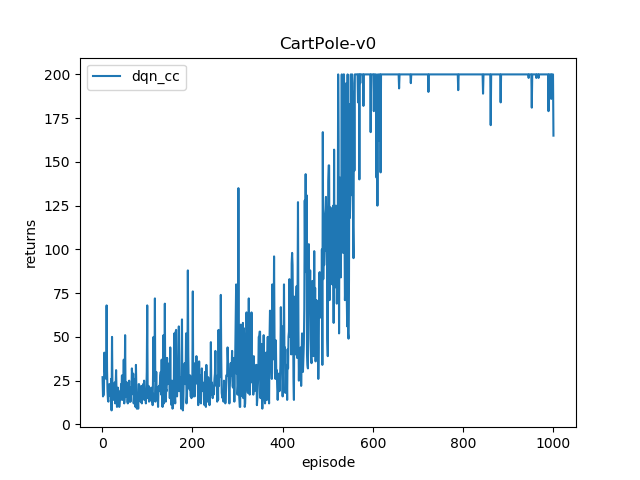
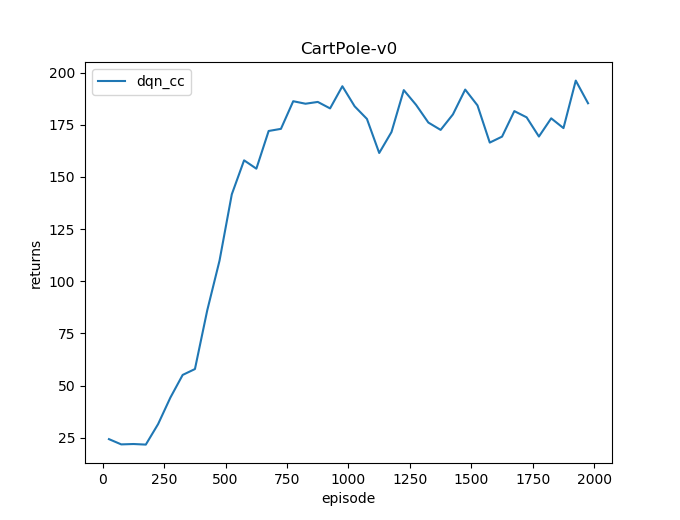
get cartpole working with dqn

diff --git a/all/agents/dqn.py b/all/agents/dqn.py
@@ -8,7 +8,7 @@ class DQN(Agent):
                  q,
                  policy,
                  replay_buffer_size=100000,
-                 minibatch_size=32,
+                 minibatch_size=4 * 32,
                  gamma=0.99,
                  prefetch_size=10000,
                  update_frequency=4
@@ -53,8 +53,7 @@ class DQN(Agent):
                 and self.frames_seen % self.update_frequency == 0)
 
     def train(self):
-        (states, actions, next_states, rewards) = self.replay_buffer.sample(
-            self.update_frequency * self.minibatch_size)
+        (states, actions, next_states, rewards) = self.replay_buffer.sample(self.minibatch_size)
         values = self.q(states, actions)
         targets = rewards + self.gamma * \
             torch.max(self.q.eval(next_states), dim=1)[0]

diff --git a/all/presets/dqn/dqn_classic_control/__init__.py b/all/presets/dqn/dqn_classic_control/__init__.py
@@ -8,8 +8,8 @@ from ..model import deep_q_classic_control
 def dqn_cc(env):
     model = deep_q_classic_control(env)
     optimizer = Adam(model.parameters(), lr=1e-4)
-    q = TabularActionValue(model, optimizer)
+    q = TabularActionValue(model, optimizer, target_update_frequency=1000)
     policy = GreedyPolicy(q, annealing_time=10000)
-    return DQN(q, policy, replay_buffer_size=10000, prefetch=1000)
+    return DQN(q, policy, prefetch_size=0, update_frequency=1, minibatch_size=32)
 
 __all__ = ["dqn_cc"]

diff --git a/all/presets/dqn/dqn_classic_control/demo.py b/all/presets/dqn/dqn_classic_control/demo.py
@@ -2,7 +2,7 @@ from all.experiments import Experiment
 from all.presets.dqn import dqn_cc
 
 def run():
-    experiment = Experiment('CartPole-v0', episodes=1000, trials=1)
+    experiment = Experiment('CartPole-v0', episodes=2000, trials=1)
     experiment.run(
         dqn_cc,
         plot_every=1,
